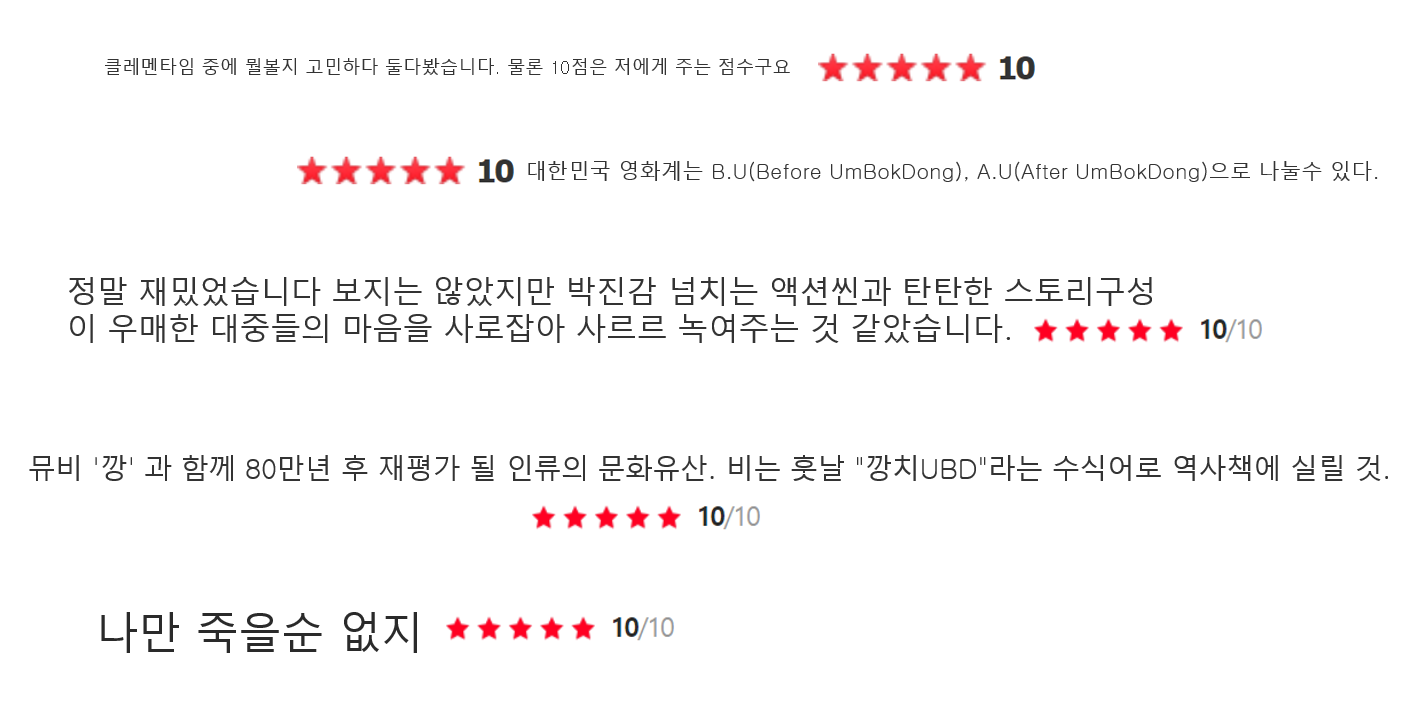
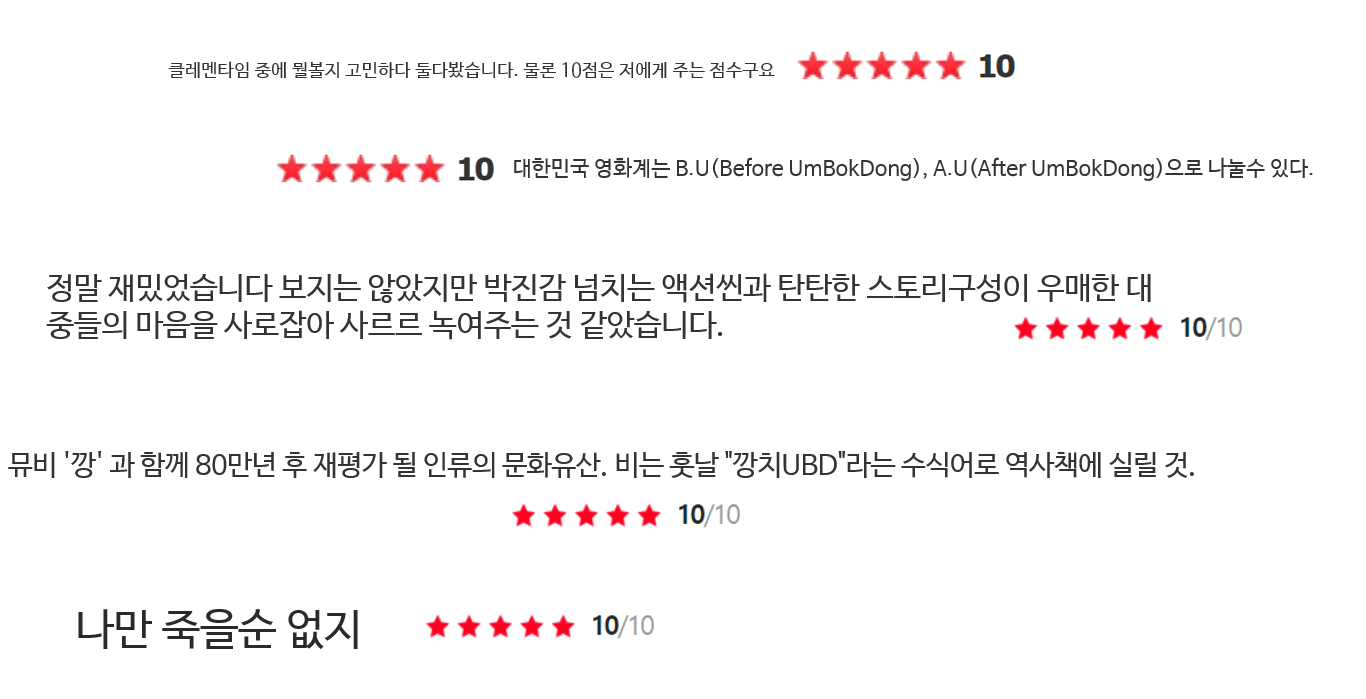
read me update, functionality finish

diff --git a/static/html/index.html b/static/html/index.html
@@ -4,7 +4,8 @@
     <meta charset="UTF-8">
     <title>KingBokDong</title>
     <link rel="stylesheet" href="https://stackpath.bootstrapcdn.com/bootstrap/4.3.1/css/bootstrap.min.css" integrity="sha384-ggOyR0iXCbMQv3Xipma34MD+dH/1fQ784/j6cY/iJTQUOhcWr7x9JvoRxT2MZw1T" crossorigin="anonymous">
-    <link href="https://fonts.googleapis.com/css?family=Black+Han+Sans|East+Sea+Dokdo" rel="stylesheet">
+    <link href="https://fonts.googleapis.com/css?family=Black+Han+Sans|East+Sea+Dokdo|Nanum+Gothic+Coding|Kirang+Haerang" rel="stylesheet">
+
 </head>
 <body>
 <style type = "text/css">
@@ -23,7 +24,8 @@
         font-family: 'East Sea Dokdo', cursive;
     }
     .content_title{
-        font-size : 30px;
+        font-size : 40px;
+        font-family: 'Black Han Sans', sans-serif;
 
     }
     #main_logo{
@@ -39,7 +41,8 @@
 
     .carousel_title {
         color: black;
-        font-size: 20px;
+        font-size: 30px;
+        font-family: 'Kirang Haerang', cursive;
 
     }
 
@@ -91,25 +94,44 @@
                 </ol>
                 <div class="carousel-inner">
                     <div class="carousel-item active">
-                        <img  src="../img/medal.png" class=" mx-auto d-block carousel_image" alt="...">
+                        <img  src="../img/ubd_main_img_0.png" class="rounded mx-auto d-block carousel_image" alt="...">
+                        <br>
+                        <br>
+                        <br>
+                        <br>
+                        <br>
                         <div class="carousel-caption d-none d-md-block carousel_title">
-                            <h5>First slide label</h5>
-                            <p>Nulla vitae elit libero, a pharetra augue mollis interdum.</p>
+                            <p>17만 관객 = 1 UBD 라는 척도를 세운 한국 영화계의 전설</p>
                         </div>
-                    </div>
-                    <div class="carousel-item">
-                        <img  src="../img/medal.png" class="rounded mx-auto d-block carousel_image" alt="...">
-                        <div class="carousel-caption d-none d-md-block carousel_title">
-                            <h5>Second slide label</h5>
-                            <p>Lorem ipsum dolor sit amet, consectetur adipiscing elit.</p>
-                        </div>
+
                     </div>
                     <div class="carousel-item">
                         <img  src="../img/ubd_review.png" class="rounded mx-auto d-block carousel_image" alt="..." >
+                        <br>
+                        <br>
+                        <br>
+                        <br>
+                        <br>
                         <div class="carousel-caption d-none d-md-block carousel_title">
-                            <h5>Third slide label</h5>
-                            <p>Praesent commodo cursus magna, vel scelerisque nisl consectetur.</p>
+                            <p>자전차왕 엄복동을 본 수많은 관객들의 극찬!</p>
+
                         </div>
+
+
+                    </div>
+                    <div class="carousel-item">
+
+                        <img  src="../img/ubd_main_img_1.png" class=" mx-auto d-block carousel_image" alt="...">
+                        <br>
+                        <br>
+                        <br>
+                        <br>
+                        <br>
+                        <div class="carousel-caption d-none d-md-block carousel_title">
+                            <p>관객들의 지속적인 사랑으로 재해석된 포스터</p>
+                        </div>
+
+
                     </div>
                 </div>
                 <a class="carousel-control-prev" href="#carouselExampleCaptions" role="button" data-slide="prev">
@@ -147,8 +169,8 @@
 
     <div class="jumbotron" >
         <img src="../img/ubd_1.png" align = "left" alt=""  height = "200px";>
-        <p class = "text-center content_title">엄복동의 위대한 업적을 당신이 좋아하는 영화와 비교해보세요.</p>
-        <p class = "text-center">최고! </p>
+        <p class = "text-center content_title">당신이 좋아하는 영화와 비교해보세요.</p>
+        <p class = "text-center">영화들을 비교하며 자전차왕 엄복동의 위대함을 다시금 느껴보세요. </p>
         <p class = "text-center"><a href="./search.html" class = "text-center">영화 검색하고 비교하기></a></p>
 
     </div>

diff --git a/README.md b/README.md
@@ -4,17 +4,11 @@
 
 
 
-이 웹페이지에는 **13.4/150 = 0.0893 의 수익률을 1 UBD** 라고 정의합니다. 이 단위를 기준으로 
+이 웹페이지에는 **1147171 달러** 또는 **한화 13억원**을 **1UBD** 라고 정의합니다. 이 단위를 기준으로 
 
-현재 상영중인 한국 영화
-
-상영이 끝난 한국 영화 
-
-imdb top 250 영화
-
-유저가 알고 싶은 영화
-
-의 UBD 지수를 제공합니다.
+* 역대 박스오피스 top 100 영화
+* 영화 평론 사이트 IMDB 의 유저 평점 top 250 영화
+* 유저가 알고 싶은 영화 
 
  
 
@@ -23,7 +17,6 @@ imdb top 250 영화
 
 
 * main.html: '자전차왕 엄복동' 이라는 영화에 대해 소개 
-* korea_airng.html: 현재 상영중인 한국 영화의 박스오피스 결과를 엄복동과 비교 
-* korea_regacy.html: 상영이 끝난 한국 영화의 박스포이스 결과를 엄복동의 박스오피스와 비교 
-* global_regacy.html: imdb 영화 top 250의 박스오피스 결과를 엄복동의 박스오피스 결과와 비교 
-* search.html: 검색기능을 추가해서, 유저가 원하는 영화의 박스오피스 결과를 엄복동과 비교 
+* global_legacy_boxoffice.html : <https://www.boxofficemojo.com/> 에 등록된 **월드와이드 박스오피스 상위 100위**의 흥행 성적을 UBD 지수로 제공함
+* global_regacy.html: <https://www.imdb.com/> 에 등록된 **유저 평점 상위 250위 영화**들의 흥행 성적을 UBD 지수로 제공함
+* search.html: https://www.boxofficemojo.com/ 에 등록된 모든 영화들중 **유저가 검색한 영화**의 UBD 지수를 제공함
